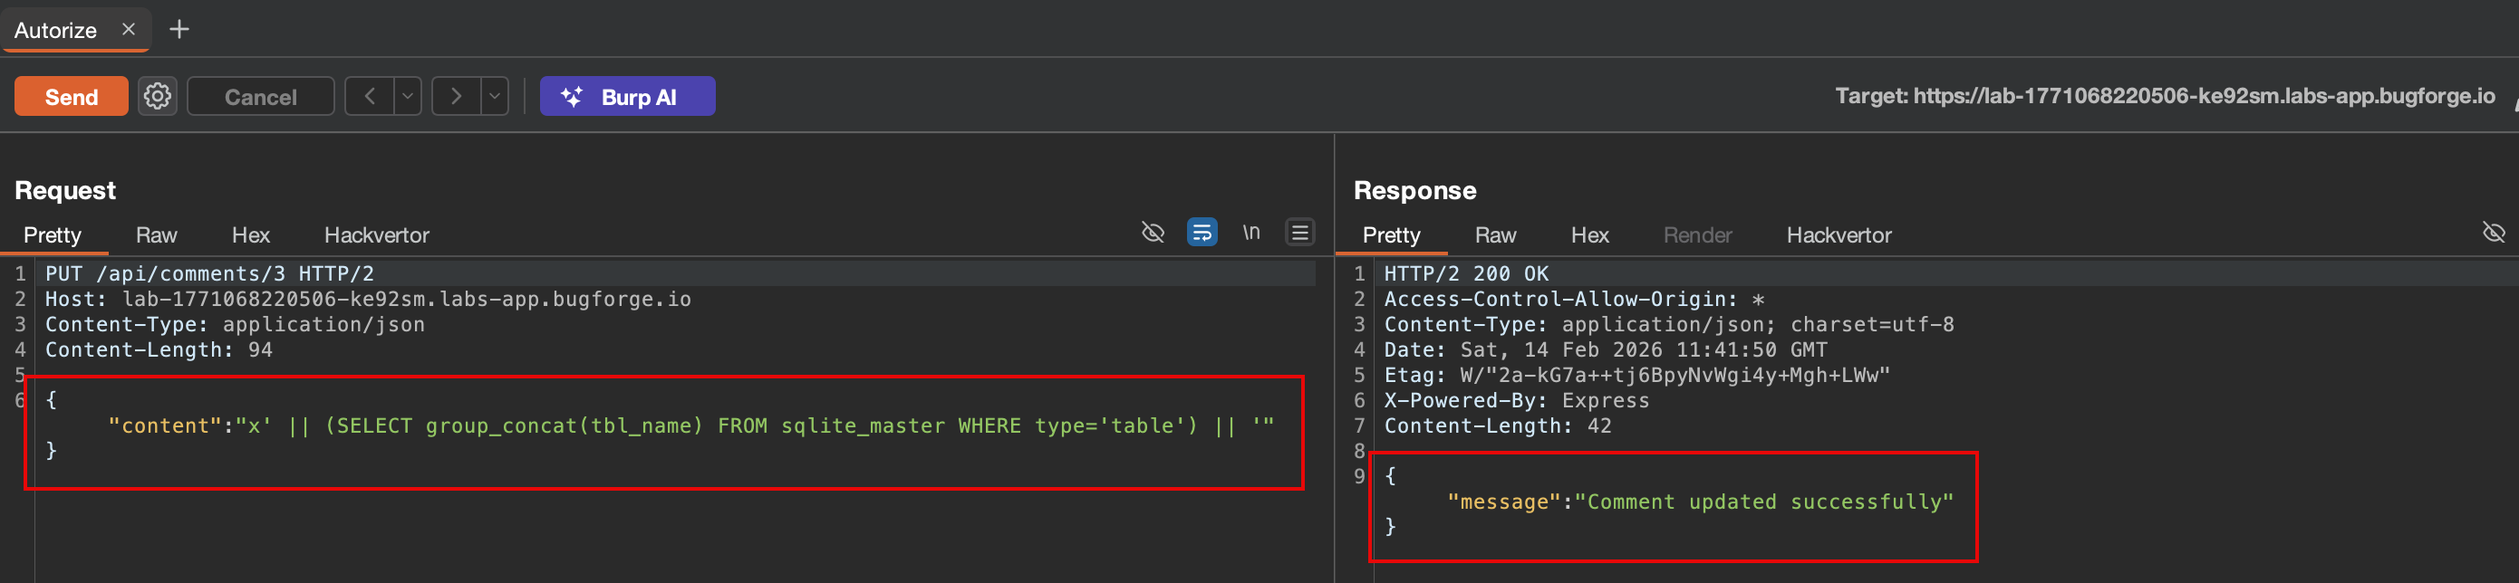
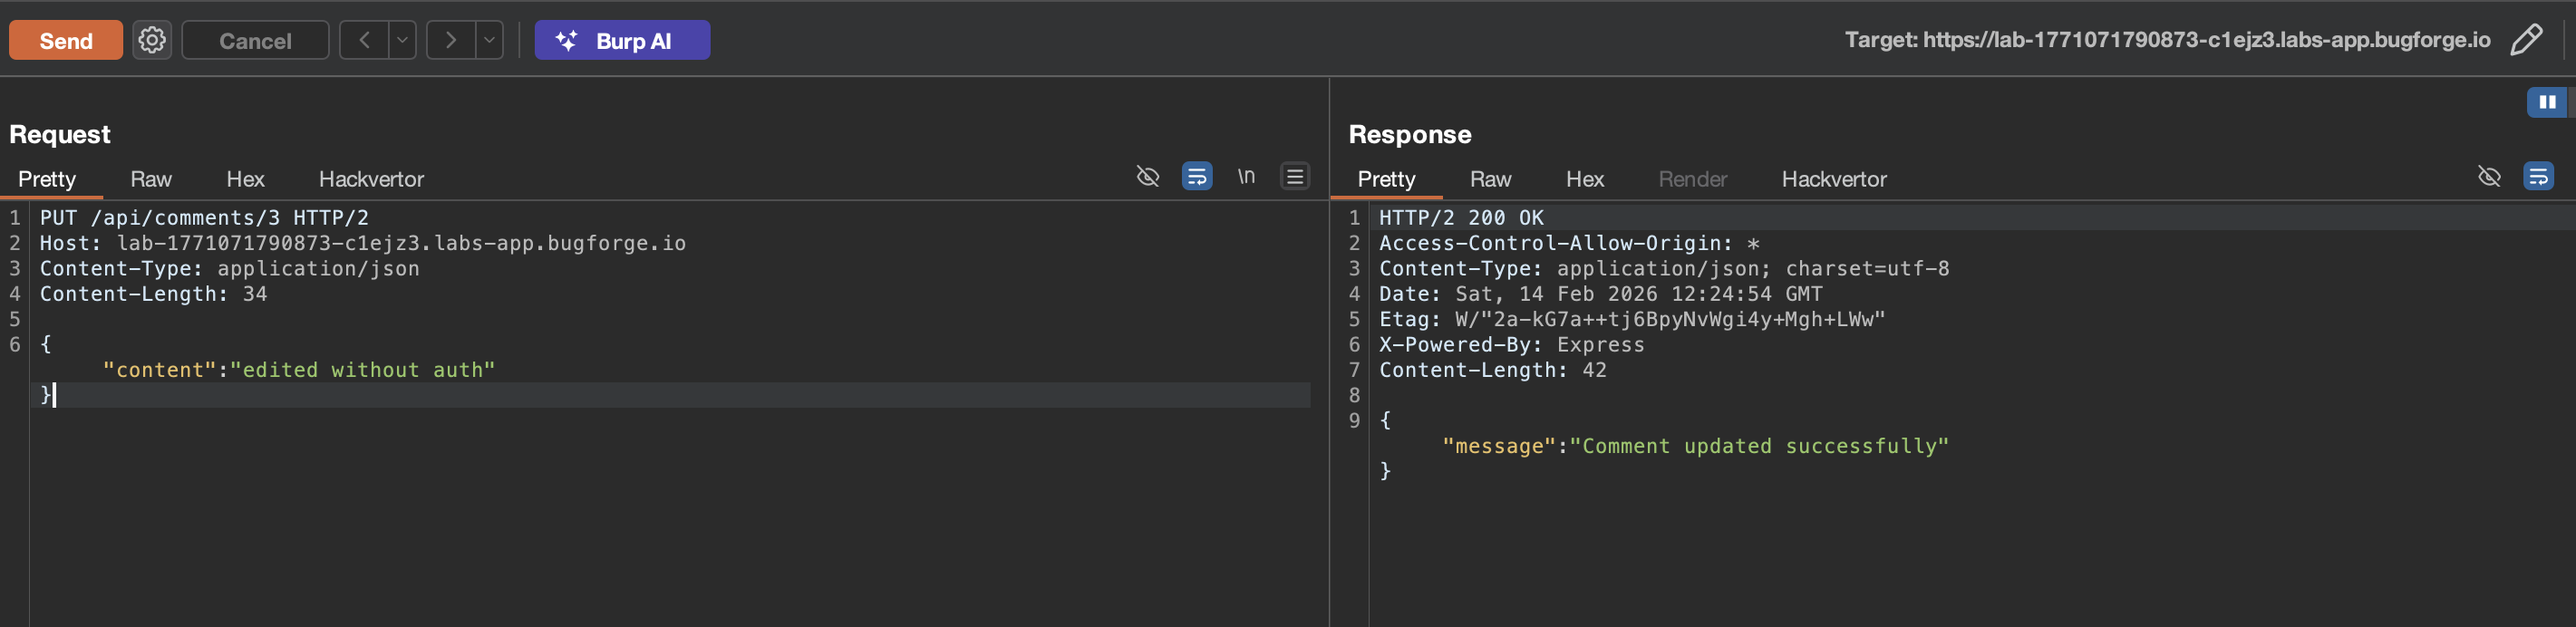
otter change 3

diff --git a/content/BugForge/Ottergram - BAC.md b/content/BugForge/Ottergram - BAC.md
@@ -103,9 +103,13 @@ Content-Type: application/json
 
 - Response: `200 "Comment updated successfully"`
 
+![Flag revealed](/BugForge/img/ottersqli-03.png)
+
 
 - Comment successfully modified without any authentication
 - The flag is revealed through this broken access control
+- Now, in Repeater, send a simple GET command to grab the comments
+  - Add your `Bearer` from before
 
 ![Flag revealed](/BugForge/img/ottersqli-04.png)
 
